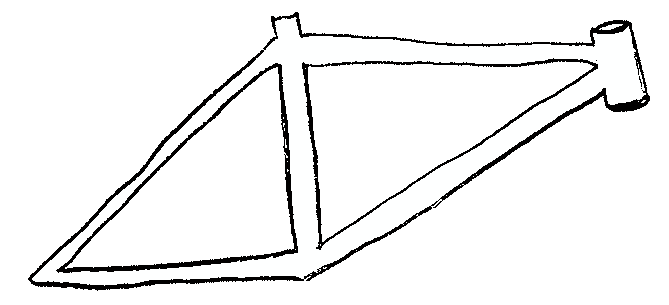
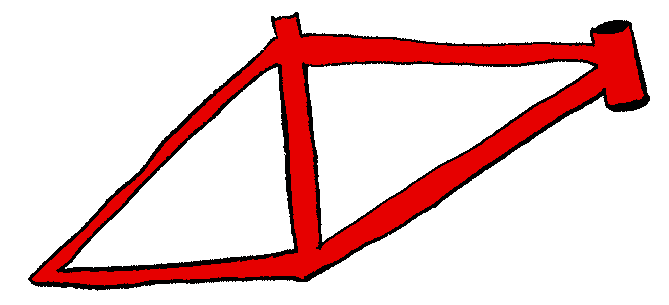
fix screen scaling, red frame

Changed region(s): [[0.0299, 0.059, 0.9865, 0.9443]]

diff --git a/bike.ts b/bike.ts
@@ -261,7 +261,8 @@ type Images = {
     citiFrame: HTMLImageElement,
     downhillFrame: HTMLImageElement,
     pennyFarthing: HTMLImageElement,
-    fork: HTMLImageElement,
+    forkLeft: HTMLImageElement,
+    forkRight: HTMLImageElement,
     mtbForks: HTMLImageElement,
     roadForks: HTMLImageElement,
     seat: HTMLImageElement,
@@ -331,8 +332,7 @@ function transition(
         }
         const elapsed = timestamp - startTime
         const progress = Math.min(1, elapsed / animationTimeMillis)
-        clearCanvas(ctx)
-        drawIconGroup(ctx, icons, startState, endState, progress)
+        drawRoot(ctx, icons, startState, endState, progress)
         if (progress < 1) {
             requestAnimationFrame(step)
         } else {
@@ -342,13 +342,25 @@ function transition(
     requestAnimationFrame(step)
 }
 
+function drawRoot(
+    ctx: CanvasRenderingContext2D,
+    root: IconGroup,
+    startState: BikeCanvasState,
+    endState: BikeCanvasState,
+    progress: number,
+) {
+    clearCanvas(ctx)
+
+    drawIconGroup(ctx, root, startState, endState, progress, [0, 0])
+}
+
 function drawIconGroup(
     ctx: CanvasRenderingContext2D,
     group: IconGroup,
     startState: BikeCanvasState,
     endState: BikeCanvasState,
     progress: number,
-    [x, y]: [number, number] = [0, 0]
+    [x, y]: [number, number]
 ) {
     const invisible = group.invisible ? group.invisible(endState, progress) : false
     if (invisible) return
@@ -364,8 +376,6 @@ function drawIconGroup(
             drawIconGroup(ctx, child, startState, endState, progress, offset)
         }
     }
-
-    // Replace all instances of 
 }
 
 function drawImg(ctx: CanvasRenderingContext2D, img: HTMLImageElement, [dx, dy]: [number, number]) {
@@ -449,8 +459,8 @@ function getLabel(rgb: [number, number, number]) {
     if(eq(rgb, [0, 0, 209]) || eq(rgb, [165, 165, 165]) || eq(rgb, [2, 3, 2])) return "explode"
     if(eq(rgb, [0, 209, 0]) || eq(rgb, [166, 166, 166]) || eq(rgb, [2, 3, 3])) return "back"
     
-    if(eq(rgb, [0, 0, 1]) || eq(rgb, [255, 255, 254])) return "frame"
-    if(eq(rgb, [0, 1, 0]) || eq(rgb, [255, 254, 255])) return "fork" 
+    if(eq(rgb, [0, 0, 1]) || eq(rgb, [0, 0, 230])) return "frame"
+    if(eq(rgb, [0, 1, 0]) || eq(rgb, [0, 0, 231])) return "fork" 
     if(eq(rgb, [0, 1, 1]) || eq(rgb, [223, 223, 223])) return "seat" 
     if(eq(rgb, [1, 0, 0]) || eq(rgb, [254, 255, 255])) return "stem" 
     if(eq(rgb, [1, 0, 1]) || eq(rgb, [254, 255, 254])) return "handlebars"
@@ -671,8 +681,23 @@ function createShapes(images: Images): IconGroup {
         }
     }
 
-    const fork: IconGroup = {
-        children: [images.fork],
+    // These two must be identical but have to be drawn separately, one in front of the wheel and one behind it
+    const forkLeft: IconGroup = {
+        children: [images.forkLeft],
+        offset: (state) => {
+            switch (state) {
+                case BikeCanvasState.Bike: return [590, 0]
+                case BikeCanvasState.ExplodedBike: return [530, 200]
+                case BikeCanvasState.Headset: return [5, 70]
+                case BikeCanvasState.ExplodedHeadset: return [60, 360]
+                case BikeCanvasState.Fork: return [30, -100]
+                default: return [690, 550]
+            }
+        }
+    }
+
+    const forkRight: IconGroup = {
+        children: [images.forkRight],
         offset: (state) => {
             switch (state) {
                 case BikeCanvasState.Bike: return [590, 0]
@@ -911,7 +936,7 @@ function createShapes(images: Images): IconGroup {
     }
 
     const bike: IconGroup = {
-        children: [rearWheel, frontWheel, fork, seat, internalHeadset, frame, stem, handlebars, topCap, frontBrake, drivetrain],
+        children: [rearWheel, forkRight, frontWheel, forkLeft, seat, internalHeadset, frame, stem, handlebars, topCap, frontBrake, drivetrain],
         offset: () => [270, 200]
     }
 
@@ -1148,9 +1173,10 @@ function init(images: Images) {
 
     const getCoordinates = (ev: MouseEvent) => {
         const bounding = canvas.getBoundingClientRect();
-        const scaleFactor = canvas.width / bounding.width;
-        const x = Math.round(ev.offsetX * scaleFactor);
-        const y = Math.round(ev.offsetY * scaleFactor);
+        const xScaleFactor = canvas.width / bounding.width;
+        const yScaleFactor = canvas.height / bounding.height
+        const x = Math.round(ev.offsetX * xScaleFactor);
+        const y = Math.round(ev.offsetY * yScaleFactor);
         return { x, y };
     }
 
@@ -1202,10 +1228,8 @@ function init(images: Images) {
         const labelText = getLabel([data[0], data[1], data[2]]);
         
     })
-
-    clearCanvas(context)
     
-    drawIconGroup(context, root, initialState, initialState, 1)
+    drawRoot(context, root, initialState, initialState, 1)
 }
 
 function loadImage(
@@ -1227,7 +1251,8 @@ Promise.all([
     loadImage("/bike/citi_frame.png"),
     loadImage("/bike/downhill_frame.png"),
     loadImage("/bike/penny_farthing.png"),
-    loadImage("/bike/fork.png"),
+    loadImage("/bike/fork_left.png"),
+    loadImage("/bike/fork_right.png"),
     loadImage("/bike/mtb_forks.png"),
     loadImage("/bike/road_forks.png"),
     loadImage("/bike/seat.png"),
@@ -1275,7 +1300,8 @@ Promise.all([
     citiFrame,
     downhillFrame,
     pennyFarthing,
-    fork,
+    forkLeft,
+    forkRight,
     mtbForks,
     roadForks,
     seat,
@@ -1324,7 +1350,8 @@ Promise.all([
         citiFrame,
         downhillFrame,
         pennyFarthing,
-        fork,
+        forkLeft,
+        forkRight,
         mtbForks,
         roadForks,
         seat,

diff --git a/image_processing/colour_map.py b/image_processing/colour_map.py
@@ -33,8 +33,9 @@ def transform(name, black_value=BLACK, white_value=WHITE, red_value=RED, green_v
     cv2.imwrite(name, mapped_image)
 
 # Use an encoding which maps black to a unique colour very close to black, and same for white, for each image
-transform("./public/bike/frame.png", np.array([0, 0, 1, 255]), np.array([255, 255, 254, 255]))
-transform("./public/bike/fork.png", np.array([0, 1, 0, 255]), np.array([255, 254, 255, 255]))
+transform("./public/bike/frame.png", np.array([0, 0, 1, 255]), np.array([255, 255, 254, 255]), red_value=np.array([0, 0, 230, 255]))
+transform("./public/bike/fork_left.png", np.array([0, 1, 0, 255]), np.array([255, 254, 255, 255]), red_value=np.array([0, 0, 231, 255]))
+transform("./public/bike/fork_right.png", np.array([0, 1, 0, 255]), np.array([255, 254, 255, 255]), red_value=np.array([0, 0, 231, 255]))
 transform("./public/bike/seat.png", np.array([0, 1, 1, 255]), np.array([223, 223, 223, 255]))
 transform("./public/bike/stem.png", np.array([1, 0, 0, 255]), np.array([254, 255, 255, 255]))
 transform("./public/bike/handlebars.png", np.array([1, 0, 1, 255]), np.array([254, 255, 254, 255]))

diff --git a/README.md b/README.md
@@ -17,6 +17,6 @@ This is an interactive diagram of a bike. The scripts for animations are all def
 * [x] Screen reader/nojs excuse
 * [x] Mobile excuse
 * [x] Screen scaling
+* [x] Red frame
 * [ ] Handwritten labels on hover
 * [ ] Info link
-* [ ] Colour picker
